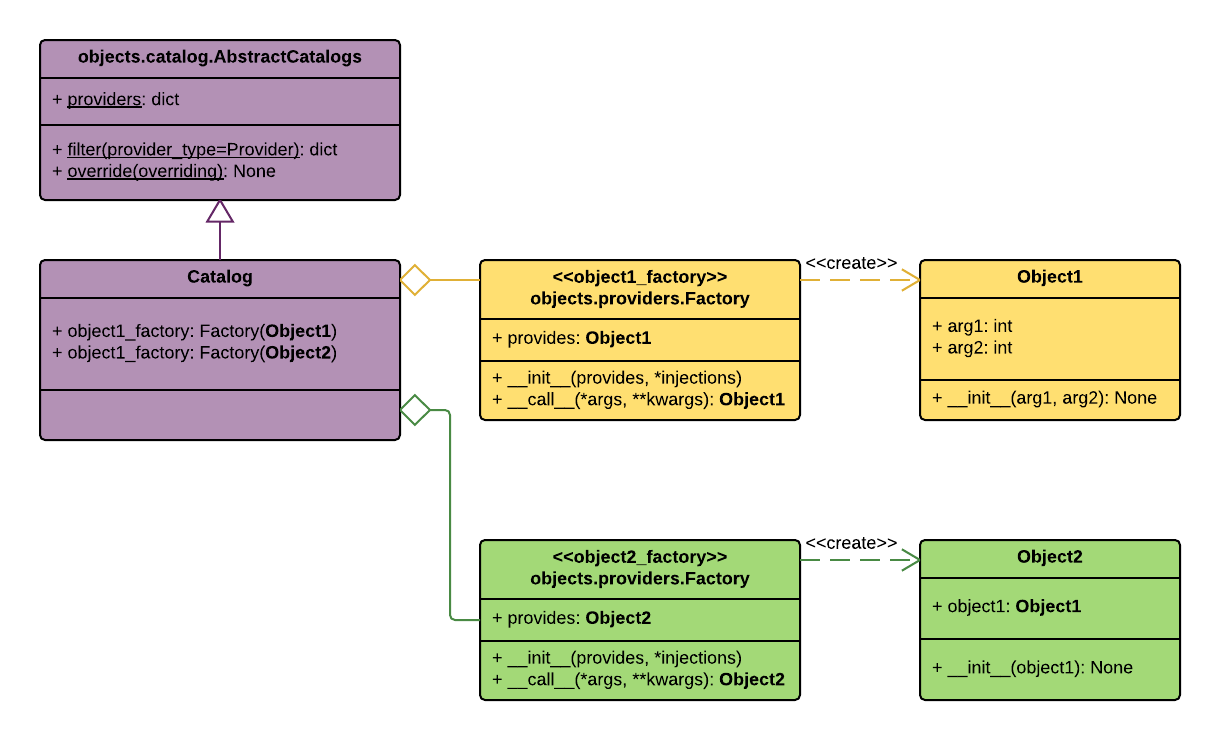
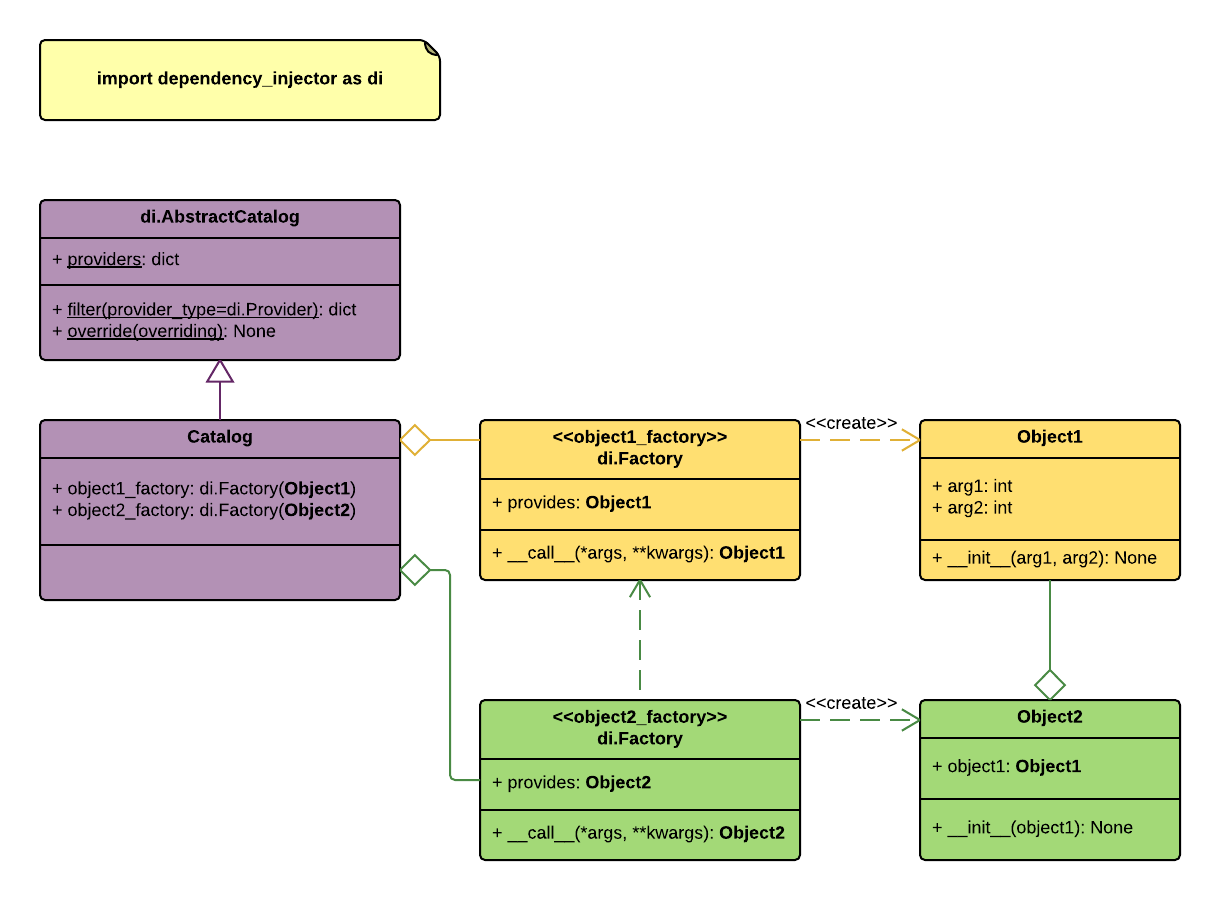
Update catalog docs

Changed region(s): [[0.0311, 0.0311, 0.9967, 0.6838], [0.3738, 0.7149, 0.9967, 0.9635], [0.3426, 0.5284, 0.3738, 0.5595]]

diff --git a/examples/catalogs/override_decorator.py b/examples/catalogs/override_decorator.py
@@ -1,4 +1,4 @@
-"""Catalog `@override()` decorator example."""
+"""Catalog overriding using `@di.override()` decorator example."""
 
 import collections
 import dependency_injector as di

diff --git a/examples/catalogs/override.py b/examples/catalogs/override.py
@@ -1,4 +1,4 @@
-"""`Catalog.override()` example."""
+"""Catalog overriding example."""
 
 import collections
 import dependency_injector as di

diff --git a/docs/catalogs/index.rst b/docs/catalogs/index.rst
@@ -4,35 +4,34 @@ Catalogs
 Catalogs are collections of providers. Main purpose of catalogs is to group
 providers. 
 
-There are, actually, several popular use cases of catalogs:
+There are, actually, several popular cases of catalogs usage:
 
-- Grouping of providers from same architectural layer (for example, 
+- Grouping of providers from the same architectural layer (for example, 
   ``Services``, ``Models`` and ``Forms`` catalogs).
-- Grouping of providers from a same functional components (for example,
+- Grouping of providers from the same functional groups (for example,
   catalog ``Users``, that contains all functional parts of ``Users``
   component).
 
-Als, for both of these and some other cases, it might be useful to attach 
+Also, for both of these and some other cases, it might be useful to attach 
 some init / shutdown functionality or something else, that deals with group 
 of providers.
 
 Writing catalogs
 ----------------
 
-Catalogs have to be created by extending base catalog class 
-``dependency_injector.catalog.AbstractCatalog``.
+Catalogs have to extend base catalog class ``di.AbstractCatalog``.
 
 Providers have to be defined like catalog's attributes. Every provider in
-catalog has name. This name should follow ``some_provider`` manner, that is 
-standard naming convention for names of attributes in Python.
+catalog has name. This name should follow ``some_provider`` convention, 
+that is standard naming convention for attribute names in Python.
 
 .. note::
 
-    It might be useful to add such 
-    ``""":type: (dependency_injector.Provider) -> Object1"""`` documentation 
-    blocks one line after provider definition for every provider. It will help 
-    code analysis tools and IDE's to understand that variable above contains 
-    some callable object, that returns particular instance as a result of call.
+    It might be useful to add such ``""":type: (di.Provider) -> Object1"""`` 
+    documentation blocks one line after provider definition for every provider.
+    It will help code analyzing tools and IDE's to understand that variable 
+    above contains some callable object, that returns particular instance 
+    in a result of call.
 
 Example:
 
@@ -49,13 +48,13 @@ Operating with catalog providers
 There are several things that could be useful for operating with catalog
 providers:
 
-- First of all, ``Catalog.providers`` attribute contains ``dict`` with all
-  catalog providers and their catalog names. This dictionary could be used
-  for any kind of operations that could be done with providers. The only note,
-  is that ``Catalog.providers`` attribute is read-only.
-- Second one, ``Catalog.filter(provider_type=Provider)`` method could be
-  used for filtering catalog providers by provider types (for example, for 
-  getting all ``Factory`` providers).
+- First of all, ``di.AbstractCatalog.providers`` attribute contains ``dict`` 
+  with all catalog providers. This dictionary could be used for any kind of 
+  operations that could be done with providers. The only note, is that 
+  ``di.AbstractCatalog.providers`` attribute is read-only.
+- Second one, ``di.AbstractCatalog.filter(provider_type=di.Provider)`` method 
+  could be used for filtering catalog providers by provider types (for example,
+  for getting all ``di.Factory`` providers).
 
 Example:
 
@@ -71,15 +70,15 @@ same names in overridden catalog.
 
 There are two ways to override catalog by another catalog:
 
-- Use ``Catalog.override(Catalog)`` method.
-- Use ``@override(Catalog)`` class decorator.
+- Use ``di.AbstractCatalog.override(AnotherCatalog)`` method.
+- Use ``@di.override(AnotherCatalog)`` class decorator.
 
-Example of overriding catalog using ``Catalog.override()`` method:
+Example of overriding catalog using ``di.AbstractCatalog.override()`` method:
 
 .. literalinclude:: ../../examples/catalogs/override.py
    :language: python
 
-Example of overriding catalog using ``@override()`` decorator:
+Example of overriding catalog using ``@di.override()`` decorator:
 
 .. literalinclude:: ../../examples/catalogs/override_decorator.py
    :language: python
